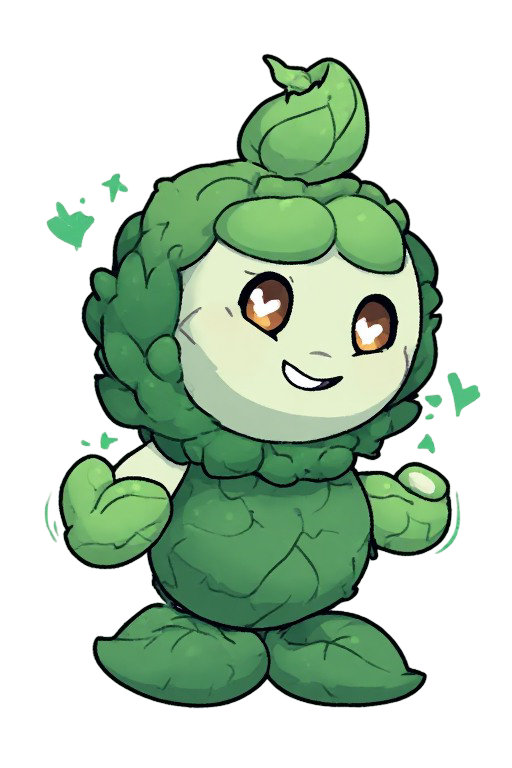
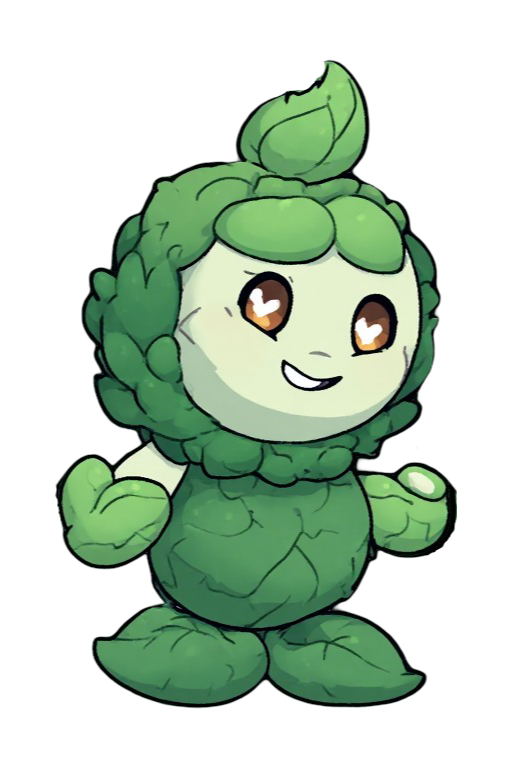
just change Volt lotus and Spore Puff Cost

diff --git a/plants/sporepuff.js b/plants/sporepuff.js
@@ -7,8 +7,7 @@ PlantRegistry.register({
   id: "sporepuff",
   name: "Spore Puff",
   image: "assets/plants/sporepuff.png",
-  cost: 50,
-  // cost: 150,
+  cost: 150,
   fireDistance: 9,
   cooldown: 1000,
   hp: 280,

diff --git a/plants/voltlotus.js b/plants/voltlotus.js
@@ -7,7 +7,7 @@ PlantRegistry.register({
   id: "voltlotus",
   name: "Volt Lotus",
   image: "assets/plants/voltlotus.png",
-  cost: 50,
+  cost: 150,
   fireDistance: 9,
   cooldown: 7000,
   hp: 320,